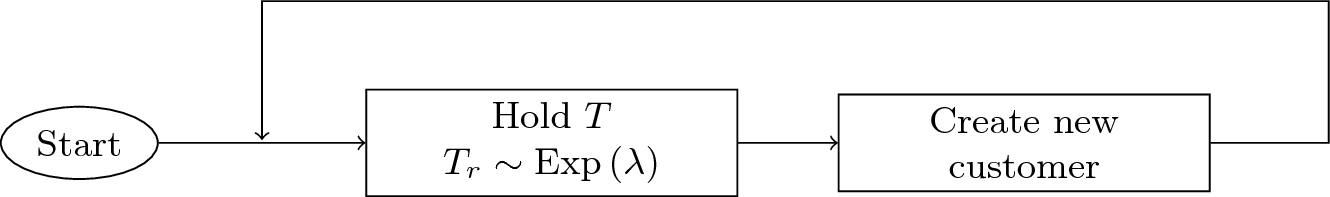
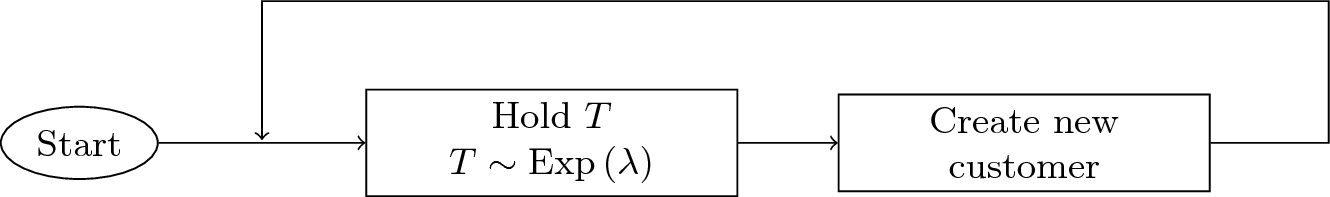
Fix

Changed region(s): [[0.3391, 0.731, 0.4932, 0.9137]]

diff --git a/images/generator_process.tex b/images/generator_process.tex
@@ -13,7 +13,7 @@
   %% Customer Generator
   %\node (title) {Customer generator process};
   \node [terminal, ] (start) {Start};
-  \node [block, right of=start, text width=9em, node distance=4cm] (wait) {Hold $T$\\ $T_r \sim \mathrm{Exp}\left(\lambda\right)$};
+  \node [block, right of=start, text width=9em, node distance=4cm] (wait) {Hold $T$\\ $T \sim \mathrm{Exp}\left(\lambda\right)$};
   \node [block, right of=wait, text width=9em, node distance=4cm] (create) {Create new customer};
   % Draw edges
   \draw [->] (start) -- node[midway,inner sep=0pt] (loop) {} (wait);
